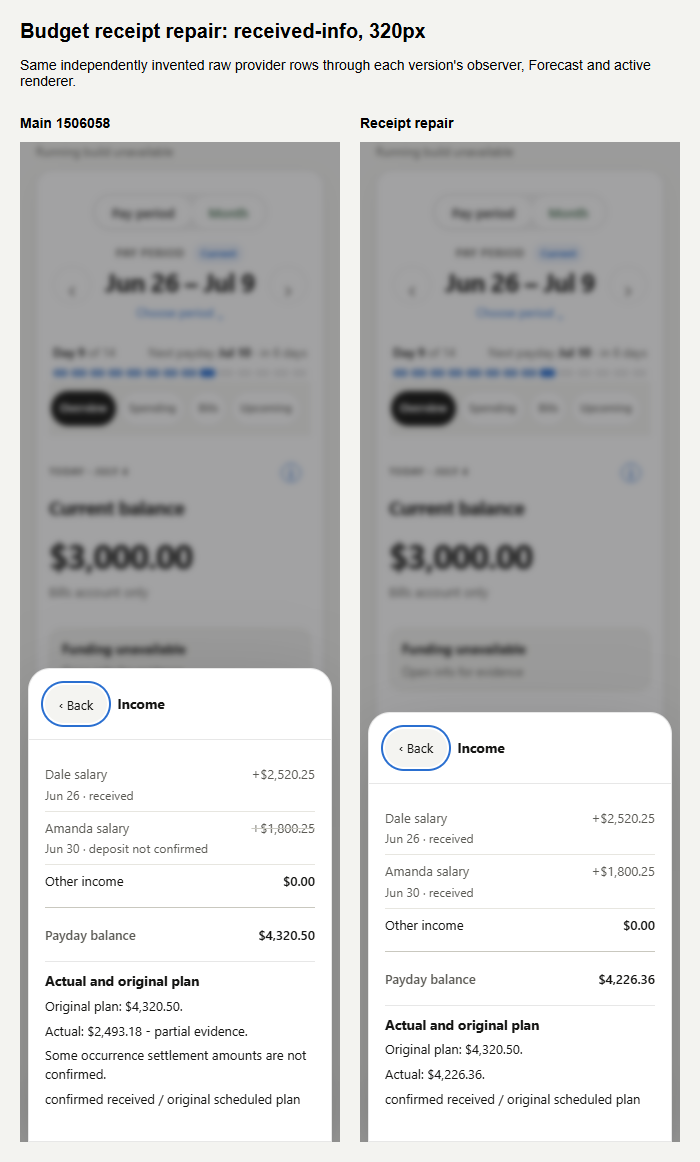
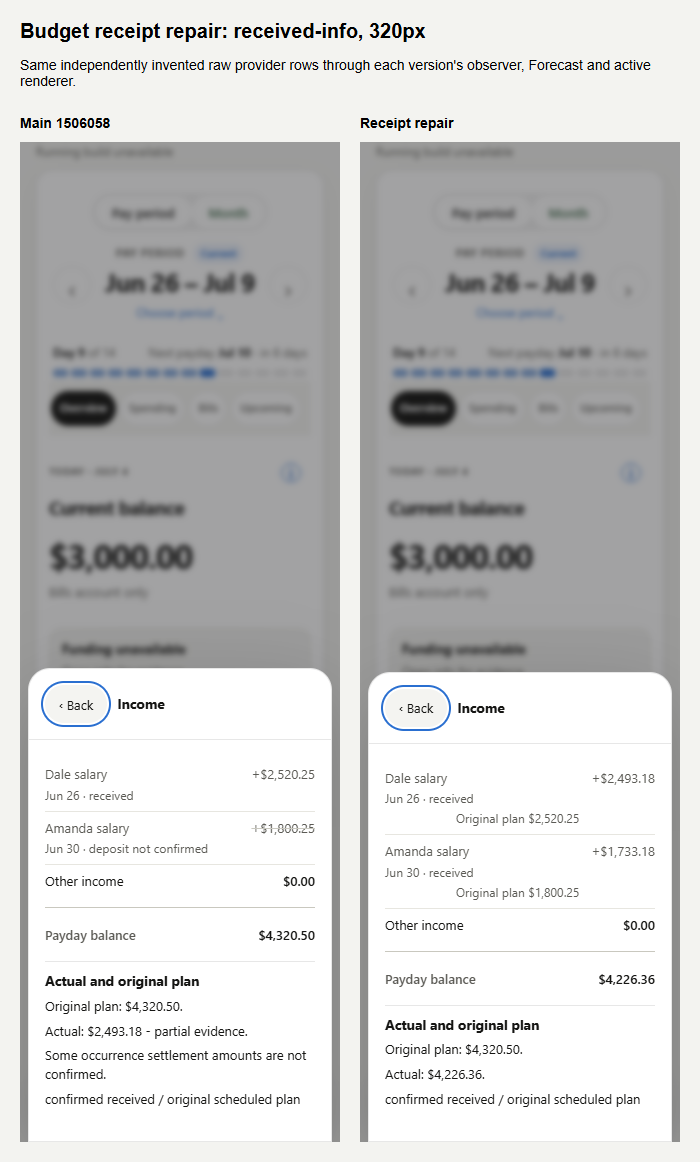
Fix received-income detail amounts and missing receipt boundaries

diff --git a/test/browser-budget-income-receipts.js b/test/browser-budget-income-receipts.js
@@ -2,14 +2,16 @@
 // App.boot uses independently invented provider receipt/transfer fixtures.
 // Every network request is intercepted; no server or credentials are used.
 const assert=require('node:assert/strict'),fs=require('node:fs'),path=require('node:path');
-const {chromium}=require('playwright'),fx=require('./fixtures/budget-income-receipts');
+const {chromium}=require('playwright'),fx=require('./fixtures/budget-income-receipts'),provider=require('../scripts/provider-observe');
 const root=path.join(__dirname,'..'),out=process.env.ATLAS_BUDGET_SCREENSHOTS_DIR||path.join(require('node:os').tmpdir(),'budget-income-receipts');
 fs.mkdirSync(out,{recursive:true});
 (async()=>{const browser=await chromium.launch({executablePath:process.env.CHROME_PATH,headless:true});
 const errors=[],external=[];
-try{for(const width of [1440,390,320])for(const state of ['received','partial','unknown']){
+try{for(const width of [1440,390,320])for(const state of ['received','partial','unknown','history','missing-actual']){
  const rows=fx.transactions().filter(x=>state!=='partial'||x.providerTransactionId!=='salary');
- const fixture=fx.build(rows);if(state==='unknown')fixture.data.liveOverlay.currentPeriodActuals.transactionCoverage='truncated';
+ const fixture=fx.build(rows,fx.rules,provider,state==='history'?'2026-07-20':fx.AS_OF);
+ if(state==='missing-actual')fixture.packet.representedActuals.find(row=>row.id==='amandaSalaryMonthEnd').actual=null;
+ if(state==='unknown')fixture.data.liveOverlay.currentPeriodActuals.transactionCoverage='truncated';
  const page=await browser.newPage({viewport:{width,height:1000},colorScheme:'light',reducedMotion:'reduce'});
  page.on('pageerror',e=>errors.push(e.message));
  await page.route('**/*',route=>{const u=new URL(route.request().url());if(u.origin!=='http://budget.test'){external.push(u.origin);return route.abort();}
@@ -20,16 +22,17 @@ try{for(const width of [1440,390,320])for(const state of ['received','partial','
  return route.fulfill({body:fs.readFileSync(file),contentType:file.endsWith('.js')?'application/javascript':file.endsWith('.css')?'text/css':'text/html'});});
  await page.goto('http://budget.test/');await page.locator('[data-budget-surface]').waitFor();
  assert.equal(await page.evaluate(()=>App.data.meta.title),'Invented receipt reconciliation');
+ if(state==='history'){await page.locator('[data-budget-window-step="-1"]').click();assert.match(await page.locator('[data-budget-window-range]').innerText(),/Jun 26.*Jul 9/);}
  assert.equal(await page.evaluate(()=>document.documentElement.scrollWidth<=innerWidth),true,'320px has no horizontal overflow');
  const income=page.locator('[data-operating-question="02"] > details > summary');
  const text=await income.innerText();
  assert.match(text,/4,320\.50/,'original denominator remains planned income');
- if(state==='received'){
+ if(state==='received'||state==='history'){
   assert.match(text,/4,226\.36/,'actual = 2493.18 payroll + 1733.18 uniquely proven external salary');
   assert.equal(await income.locator('[data-budget-progress-partial]').count(),0);
-  assert.match(await page.locator('[data-operating-question="06"] > details > summary').innerText(),/345\.94[\s\S]*365\.00/);
-  assert.match(await page.locator('[data-operating-question="07"] > details > summary').innerText(),/3,834\.08/,'final uses unchanged reserve 392.28, not actual consumption 345.94');
- }else if(state==='partial'){
+  if(state!=='history')assert.match(await page.locator('[data-operating-question="06"] > details > summary').innerText(),/345\.94[\s\S]*365\.00/);
+  if(state!=='history')assert.match(await page.locator('[data-operating-question="07"] > details > summary').innerText(),/3,834\.08/,'final uses unchanged reserve 392.28, not actual consumption 345.94');
+ }else if(state==='partial'||state==='missing-actual'){
   assert.match(text,/2,493\.18\*/,'partial confirmed subtotal is marked, never forced to plan');
   assert.equal(await income.locator('[data-budget-progress-partial]').count(),1);
  }else assert.match(text,/Unknown/,'truncated evidence cannot become an actual');
@@ -47,13 +50,31 @@ try{for(const width of [1440,390,320])for(const state of ['received','partial','
  await income.focus();await page.keyboard.press('Enter');
  await page.waitForFunction(()=>document.querySelector('[data-budget-detail-sheet]')?.open);
  const evidence=await page.locator('[data-budget-detail-body]').innerText();
- if(state==='received')assert.match(evidence,/4,226\.36/);
- if(state==='partial')assert.match(evidence,/partial evidence[\s\S]*Some occurrence settlement amounts are not confirmed/);
+ if(state==='received'||state==='history')assert.match(evidence,/4,226\.36/);
+ if(state==='partial'||state==='missing-actual')assert.match(evidence,/partial evidence[\s\S]*Some occurrence settlement amounts are not confirmed/);
  if(state==='unknown')assert.match(evidence,/Actual: Unavailable/);
+ const body=page.locator('[data-budget-detail-body]');
+ const received=await body.locator('[data-income-status="received"]').evaluateAll(rows=>rows.map(row=>({
+  id:row.dataset.periodIncome||row.dataset.otherIncomeItem,
+  amount:row.querySelector('[data-income-line-amount]')?.textContent.trim(),
+  original:row.querySelector('[data-income-original-plan]')?.textContent.trim()})));
+ const dale=received.find(row=>row.id==='payroll');assert.equal(dale.amount,'+$2,493.18');assert.match(dale.original,/Original plan.*2,520\.25/);
+ const amanda=received.find(row=>row.id==='amandaSalaryMonthEnd');
+ if(state==='partial')assert.equal(amanda,undefined,'unproven salary is never marked received');
+ else{assert.equal(amanda.amount,state==='missing-actual'?'Unavailable':'+$1,733.18');assert.match(amanda.original,/Original plan.*1,800\.25/);}
+ const cents=text=>{const m=text.match(/[$]([0-9,]+)\.([0-9]{2})/);return m?Number(m[1].replaceAll(',',''))*100+Number(m[2]):null;};
+ const lineCents=received.reduce((sum,row)=>sum+(cents(row.amount)??0),0);
+ if(state!=='unknown'){
+  const actualText=await body.locator('[data-budget-progress-evidence="income"]').innerText();
+  const actual=cents(actualText.split('Actual:')[1]);
+  assert.equal(lineCents,state==='partial'||state==='missing-actual'?249318:422636,'independent actual receipt cents; plans are separately labeled');
+  assert.equal(actual,lineCents,'opened Info received-line sum equals its printed Actual total');
+ }
+
  await page.screenshot({path:path.join(out,`${state}-info-${width}.png`),fullPage:false,animations:'disabled'});
  await page.keyboard.press('Escape');assert.equal(await income.evaluate(el=>el===document.activeElement),true,'exact income trigger regains focus');
  const r=await income.evaluate(el=>{const b=el.getBoundingClientRect(),dock=document.querySelector('.sitenav-household');return {top:b.top,bottom:b.bottom,limit:dock&&getComputedStyle(dock).position==='fixed'?dock.getBoundingClientRect().top:innerHeight};});
  assert.ok(r.top>=0&&r.bottom<=r.limit,'restored focus is visible above the mobile dock');
  await page.close();console.log(`PASS ${width}px ${state}: actual/original numerics, no subtitles, truthful unknowns, Info, exact focus and reserve identity`);
- }assert.deepEqual(errors,[]);assert.deepEqual(external,[]);console.log('PASS actual App.boot -> sanitized provider receipts -> Forecast -> active Budget; all 9 views and keyboard Info');
+ }assert.deepEqual(errors,[]);assert.deepEqual(external,[]);console.log('PASS actual App.boot -> sanitized provider receipts -> Forecast -> active Budget; all 15 current/history/missing views, received line sums and keyboard Info');
 }finally{await browser.close();}})().catch(e=>{console.error(e);process.exitCode=1;});

diff --git a/public/forecast.js b/public/forecast.js
@@ -4953,8 +4953,8 @@
       ? packet.representedActuals : [];
     for (const row of rows) {
       if (!row || !row.id || !row.date) continue;
-      const amt = Number(row.actual);
-      if (!isFinite(amt)) continue;
+      const amt = row.actual;
+      if (typeof amt !== 'number' || !isFinite(amt)) continue;
       const postedOn = row.postedOn && ISO_CALENDAR_DATE.test(String(row.postedOn))
         ? String(row.postedOn) : null;
       map.set(row.id + '@' + row.date, {
@@ -6301,6 +6301,16 @@
     }
     return householdIncomeAmount(row.amount)
       || householdIncomeAmount(row.planned);
+  }
+
+  // Received detail is a receipt claim, so it cannot use the contribution
+  // selector's ordinary planned fallback or a previously authored movement.
+  function incomeReceivedAmount(row) {
+    if (!row || row.status !== 'received' || row.notReliedUpon === true
+        || ['unverified', 'pending', 'unknown', 'unavailable', 'not-relied-upon', 'relied-upon'].includes(row.settlement)
+        || (row.actualTrust != null && !['calculated', 'estimated'].includes(row.actualTrust))
+        || typeof row.actual !== 'number' || !isFinite(row.actual)) return null;
+    return calendarIncomeContribution(row);
   }
 
   // Explicit complete household-cash evidence for (openingAsOf, morningDate).
@@ -11222,7 +11232,7 @@
           // Reuse incumbent receipt semantics: raw credits and normalized
           // benefit/Other Income actuals have different provider signs.
           // The numeric actual guard above forbids its planned fallback.
-          const actual = direction === 'income' ? calendarIncomeContribution(row) : row.actual;
+          const actual = direction === 'income' ? incomeReceivedAmount(row) : row.actual;
           amount = roundCent(amount + actual); known++;
           if (rowTrust === 'estimated') trust = 'estimated';
           evidence.push({ id: row.id || null, date: row.date, actual,
@@ -19146,7 +19156,7 @@
   const Forecast = { savingsInventory, savingsEarmarksState, HOUSEHOLD_TIMEZONE, financialDate, addDays, diffDays, occurrences, commitmentSettledOn, commitmentSettledBy, commitmentStatus, commitmentCashDate, billIsHouseholdObligation, billAffectsJointCash, isCardPaidBill, carriedOnceJointCashOutflow, prepaidJointCashOutflow, expandEvents, simulate, establishPaydaySnapshot, paydayBoundaryAccountObservation, postedAccountMovements, prePaydayBillsAccountCash,
     knowledgeHorizon, viewRange, commitmentNeed, fundingSequence, majorPlans, planSpendCards, planSpendPaydayFunding, budgetPeriodProgress, plannedDebt, debtPriority, paydayAllocation,
     classifyCurrentPeriodTransaction, householdInternalMovements, paydayPeriodOrigin, currentPeriodObligationStates, currentPeriodAction,
-    spendingCycle,
+    spendingCycle, incomeReceivedAmount,
     recommendWeekly, recommend, incomeDeadline, amandaHouseholdIncomeDeadline, counterfactuals,
     budgetBreakdown, monthlyFromWeekly,
     projectDebts, baselineTrajectory, baselineTrajectoryScenario, daleEstimatedPayrollDeposits, projectedDalePayroll,

diff --git a/test/test-income-transfer-receipts.js b/test/test-income-transfer-receipts.js
@@ -18,6 +18,30 @@ assert.equal(period.balanceAfterDeductions,3834.08,'actual receipts 4226.36 minu
 assert.equal(period.income.filter(x=>x.id==='amandaSalaryMonthEnd').length,1);
 assert.ok(!period.income.some(x=>x.otherIncome),'transfer and external coaching are not new Other Income');
 assert.equal(period.income.find(x=>x.id==='payroll').actual,-2493.18,'native payroll cents stay exact');
+assert.deepEqual(period.income.map(row=>F.incomeReceivedAmount(row)),[2493.18,1733.18],
+ 'received detail reuses receipt contribution, ignoring the planned movement');
+const receipt={status:'received',settlement:'represented',actual:-73.19,amount:95,movement:95};
+assert.equal(F.incomeReceivedAmount(receipt),73.19);
+for(const actual of [null,undefined,NaN,'73.19'])assert.equal(F.incomeReceivedAmount({...receipt,actual}),null,'missing or malformed receipt amount never falls back to plan');
+for(const settlement of ['unverified','pending','unknown','unavailable','not-relied-upon','relied-upon'])
+ assert.equal(F.incomeReceivedAmount({...receipt,settlement}),null,'contradictory settlement is not a received-amount claim');
+assert.equal(F.incomeReceivedAmount({...receipt,actualTrust:'unavailable'}),null);
+assert.equal(F.incomeReceivedAmount({...receipt,actual:0}),0,'confirmed zero does not become the original plan');
+assert.equal(F.incomeReceivedAmount({...receipt,otherIncome:true,actual:73.19}),73.19,'normalized Other receipt uses the same selector');
+for(const actual of [null,undefined,'1733.18']){
+ const malformed=fx.build();malformed.packet.representedActuals.find(row=>row.id==='amandaSalaryMonthEnd').actual=actual;
+ const published=F.recommend(malformed.data.plan,fx.AS_OF,{...malformed.data.plan.defaults,debts:[],currentPeriodActuals:malformed.packet})
+  .payPeriodViews.find(row=>row.timelineRole==='current');
+ assert.equal(F.incomeReceivedAmount(published.income.find(row=>row.id==='amandaSalaryMonthEnd')),null);
+ assert.equal(published.budgetProgress.income.actual.amount,2493.18,'malformed represented amount cannot become zero or the plan');
+ assert.equal(published.budgetProgress.income.actual.completeness,'partial');
+}
+const historical=fx.build(fx.transactions(),fx.rules,O,'2026-07-20');
+const historicPeriod=F.recommend(historical.data.plan,'2026-07-20',{...historical.data.plan.defaults,debts:[],currentPeriodActuals:historical.packet})
+ .payPeriodViews.find(x=>x.start===fx.START);
+assert.equal(historicPeriod.timelineRole,'past');
+assert.deepEqual(historicPeriod.income.map(row=>F.incomeReceivedAmount(row)),[2493.18,1733.18]);
+assert.equal(historicPeriod.budgetProgress.income.actual.amount,4226.36,'completed income retains the same proven receipt total');
 assert.deepEqual([period.budgetProgress.household.actual.amount,period.budgetProgress.household.planned.amount],
  [345.94,365],'independent current-cycle eligible debits 21531+10265+1835+963; current plans 22000+8500+6000');
 assert.equal(period.budgetHold,392.28,'independent reserve max(220,215.31)+max(85,102.65)+max(60,18.35)+9.63');

diff --git a/public/plan.js b/public/plan.js
@@ -1705,6 +1705,7 @@ function glanceSignedMoney(n) {
 
 function glanceMoney(row, kind) {
   if (!row) return null;
+  if (kind === 'in' && row.status === 'received') return Forecast.incomeReceivedAmount(row);
   if (row.movement != null && isFinite(Number(row.movement))) return Number(row.movement);
   let raw = null;
   if (kind === 'paid' || kind === 'in' || kind === 'planned') {
@@ -2004,8 +2005,11 @@ function calendarIncomeHtml(period) {
     const receiptDate = (daleSalary || amandaSalary) && row.date
       && /^\d{4}-\d{2}-\d{2}$/.test(String(row.date))
       ? `<time class="budget-receipt-date" datetime="${row.date}">${fmtDate(row.date)} · ${receiptStatus}</time>` : '';
+    const original = row.planned ?? row.amount;
+    const originalPlan = row.status === 'received' && typeof original === 'number' && Number.isFinite(original)
+      ? `<span class="budget-receipt-date" data-income-original-plan>Original plan ${money2(original)}</span>` : '';
     return `<div class="operating-line" data-period-income="${row.id || ''}" data-income-status="${statusAttr}"${extra}>
-      <span>${displayName}${receiptDate}</span><span>${amount != null ? estimateMark + about + amount : '—'}</span>
+      <span>${displayName}${receiptDate}${originalPlan}</span><span data-income-line-amount>${amount != null ? estimateMark + about + amount : row.status === 'received' ? 'Unavailable' : '-'}</span>
     </div>`;
   };
   const namedLines = named.map(row => line(row)).join('');
@@ -2042,10 +2046,11 @@ function calendarIncomeHtml(period) {
         : row.status === 'unknown' ? 'unknown'
         : row.alreadyInCash ? 'already in balance' : 'arriving';
       const about = !isReceived && row.confidence === 'estimated' ? 'about ' : '';
+      const receiptAmount = isReceived ? Forecast.incomeReceivedAmount(row) : row.amount;
       return `<li class="other-income-tx"${idAttr} data-income-status="${status}">
         <time${dateAttr}>${esc(dateText)}</time>
         <span class="other-income-tx-payee">${esc(payeeRaw)}${received}${pending}</span>
-        <span class="other-income-tx-amount">${about}${money2(row.amount)}</span>
+        <span class="other-income-tx-amount" data-income-line-amount>${receiptAmount != null ? about + money2(receiptAmount) : 'Unavailable'}</span>
       </li>`;
     }).join('');
     otherHtml = `<div class="other-income-openable" data-other-income>

diff --git a/test/fixtures/budget-income-receipts.js b/test/fixtures/budget-income-receipts.js
@@ -40,14 +40,15 @@ function transactions(){return [
  tx('refund','fixture-weekly','2026-07-03',-11.07,'Invented refund','Refund',{kind:'refund'}),
  tx('old','fixture-weekly','2026-06-25',51.08,'Invented prior-period grocer','Groceries'),
  tx('later','fixture-weekly','2026-07-05',82.17,'Invented future grocer','Groceries')];}
-function build(rows=transactions(),ruleRows=rules,provider=O){const d=data();
+function build(rows=transactions(),ruleRows=rules,provider=O,observationDate=AS_OF){const d=data();
+ d.meta.asOf=observationDate;d.plan.opening.asOf=observationDate;
  const input={plan:d.plan,accountMap,identityRules:ruleRows,transactions:rows,
-   transactionWindow:{startDate:'2026-06-25',endDate:AS_OF,complete:true,hasMore:false,truncated:false}};
+   transactionWindow:{startDate:'2026-06-25',endDate:observationDate,complete:true,hasMore:false,truncated:false}};
  const candidates=provider.representedEventCandidates(input);
  const report={transactions:rows,representedEventCandidates:candidates,transactionWindow:input.transactionWindow,
-   fetchedAt:AS_OF+'T18:00:00.000Z',pendingCoverage:{complete:true}};
- const packet=provider.sanitizedCurrentPeriodActuals(report,{asOf:AS_OF,plan:d.plan,accountMap,identityRules:ruleRows});
+   fetchedAt:observationDate+'T18:00:00.000Z',pendingCoverage:{complete:true}};
+ const packet=provider.sanitizedCurrentPeriodActuals(report,{asOf:observationDate,plan:d.plan,accountMap,identityRules:ruleRows});
  d.plan.opening.representedEvents=candidates.map(({id,date})=>({id,date}));
- d.liveOverlay={applied:true,operatingPlan:'live',asOf:AS_OF,currentPeriodActuals:packet};
+ d.liveOverlay={applied:true,operatingPlan:'live',asOf:observationDate,currentPeriodActuals:packet};
  return {data:d,input,report,candidates,packet};}
 module.exports={AS_OF,START,END,accountMap,rules,data,transactions,build};

diff --git a/test/test-budget-owner-voice.js b/test/test-budget-owner-voice.js
@@ -90,7 +90,7 @@ console.log('=== 1. Income labels and Dale exact dollars ===');
     'Dale payroll prints as Dale salary only');
   ok(/data-period-income="payroll"/.test(html),
     'Dale salary keeps the Forecast payroll identity');
-  const daleAmt = html.match(/data-period-income="payroll"[\s\S]*?<span>Dale salary<time[^>]*>[^<]*<\/time><\/span>\s*<span>([^<]*)<\/span>/);
+  const daleAmt = html.match(/data-period-income="payroll"[\s\S]*?<span>Dale salary<time[^>]*>[^<]*<\/time><\/span>\s*<span data-income-line-amount>([^<]*)<\/span>/);
   ok(daleAmt && daleAmt[1] === '+' + composer.money2(4264)
       && !/about/i.test(daleAmt[0]),
     'Dale salary prints exact $4,264.00 with no about prefix',

diff --git a/ARCHITECTURE.md b/ARCHITECTURE.md
@@ -855,6 +855,7 @@ closed: `Forecast.expandEvents` is the one cash calendar.
 
 | Concept | Incumbent authority |
 |---|---|
+| Confirmed received-income amounts | `Forecast.incomeReceivedAmount` reuses the incumbent calendar receipt contribution with explicit received status, finite numeric actual and eligible settlement/trust guards. Named income and Other Income detail consumers and `Forecast.budgetPeriodProgress` use the same receipt magnitude; planned amounts are labeled separately. Missing actuals are unavailable, never planned fallback or coerced zero. |
 | Confirmed goal earmarks and observed savings inventory | Optional `plan.savingsEarmarks` versioned purpose snapshots own confirmed intent only. `Forecast.savingsEarmarksState` validates them; `Forecast.savingsInventory` reconciles the current snapshot with sanitized, ephemeral Lunch Money pool evidence. Budget and Plan Spend print that same inventory through `public/savings-inventory.js`. Existing commitments, yearly bills, group members and `budget-reserve` `plan.budget.categories` rows (class `reserve`) own requirements. Assignments divide observed cash; they do not add cash beside balances or ACR. Unknown intent is not zero saved. For explicit purpose reserves, independently backed assignments seed the incumbent allocator only with matching payment components. Unknown intent, stale/pending/deficit evidence, and unsupported payment identities withhold proposals. Other configured reserve types retain incumbent withholding. |
 | The schedule — what is due, when, how often | `Forecast.expandEvents`, via `simulate`, from the `plan` inputs. An unresolved known once cash obligation still on the plan remains binding when Forecast start advances past its reservation date; the event keeps that scheduled date rather than acquiring the caller's start, and the cash walk still deducts the amount at this opening. The coupled `projectDebts` walk applies that same cash obligation at this opening via the same `cashWalkDate`; absorption still keys the original scheduled date, so `recommend` cannot drop the carried amount after caps. Advancing as-of is not settlement evidence. Received once income keeps window semantics. Non-cash once charges keep window semantics so a historical capitalisation is not applied again. Settled once outflows are removed, named on `representedEvents` for this start, or encoded as `firstDue` on the recurring row. Dated occurrences already inside the opening observation may be named on `plan.opening.representedEvents` or `opts.representedEvents` and are omitted only when that date is the simulation start (`plan.opening` only when its `asOf` is that start), except that a live overlay may set `plan.opening.priorAsOf` so represented names in `(priorAsOf, asOf]` also suppress replay. Unrepresented joint-cash outflows in `(priorAsOf, asOf)` remain on `expandEvents` and are applied at this opening via `cashWalkDate`. Unrepresented recurring card-paid reserved bills in that same interval remain on `expandEvents` and are applied at this opening via `cashWalkDate` as reserved gravity; they do not become joint-cash withdrawals. `Forecast.carriedOnceJointCashOutflow` permits an exact older represented id+date to suppress only a past once joint-cash outflow that Forecast still carries at this start; it cannot backfill income, recurring events, non-cash charges, or a merely similar occurrence. `Forecast.prepaidJointCashOutflow` permits an exact represented id+date to suppress a still-upcoming joint-cash obligation or bill occurrence after this start when identity has already named that occurrence, including a capitalising obligation's encoded cash-minimum date which shares that obligation id and is not the non-cash capitalise row; commitments still use `settledOn`, and recurring income is not prepaid this way. A future represented date is ignored for every other class. That list is opening-date settlement evidence, not a date-wide skip and not a second event engine. A dated commitment cash date is `Forecast.commitmentCashDate`: a stored valid `YYYY-MM-DD` `date` wins; otherwise a single clear month-and-year `when` (`Mon YYYY` or `by Mon YYYY`) is the 15th of that month. Spans, seasons, missing years, `late`/`around`/`early` wording, TBD, Christmas-as-month, and annual fail closed. Pages do not invent a day. A dated commitment may carry `settledOn` (a `YYYY-MM-DD`). `Forecast.commitmentSettledBy` treats that cash requirement as already satisfied only when the date is on or before the simulation start. A live overlay `priorAsOf` lookback still uses that same Forecast opening as the settlement cutoff: a valid `settledOn` on or before this opening is not re-funded merely because the inner expand window starts at the earlier origin. Unrepresented recurring joint-cash bills in `(priorAsOf, asOf)` remain reserved. Unrepresented recurring card-paid reserved bills in that same interval remain reserved. The record stays; its scheduled date does not move. Human-readable historical status is derived from the date's presence. Sinking-fund and estimated-commitment risk use the same helper. `representedEvents` is not used for this. A dated bill may carry `payingAccount`. `Forecast.billIsHouseholdObligation` is true unless the bill is explicitly `householdObligation: false`; paying-account metadata never flips that. `Forecast.billAffectsJointCash` suppresses joint-cash deduction when the paying account is on `plan.startingCash.heldElsewhere`, or when the bill is card-paid (`Forecast.isCardPaidBill`: payingAccount is a known obligation `debtId`, or explicit `jointCash: false` that is not held-elsewhere). No payingAccount, a `breakdown` payer, or an unknown/typo id fail closed and still deduct. A card-paid dated bill is still on `expandEvents` and is reserved on its planning day; it does not deduct chequing and does not capitalise onto the card. An externally paid household obligation still appears on the `expandEvents` schedule and in `Forecast.nextDue`; `Forecast.simulate` and `Forecast.nextPaymentOut` do not treat it as cash leaving the joint pool. A utility account balance is not a bill |
 | Cash projection over the window | `Forecast.simulate`. `opts.horizonDays` walks the master; `opts.viewDays` slices the same walk for display; `opts.viewStart` may begin that slice after as-of so a custom range is a real offset, not an as-of prefix of the same length. A sliced week recomputes its in-range income, bills, obligations, variable, reserved and other aggregates from the clipped events and days; it does not keep the original week's full totals. Default remains `plan.windowDays` so a caller that has not asked for the master still gets the view. Undated `plan.budget.categories[].currentMonthly` (when it wins over an owner target) is reserved as daily cash on this walk, using the calendar month `365.25 / 12`, so a card-paid current-regime service without a trustworthy day exerts gravity without a fabricated due date. A dated card-paid bill is reserved on its planning day on the same `week.reserved` / `totals.reserved` ledger, not as `week.bills` and not mixed into the weekly-cap variable/Budget column. Neither form is a second event engine. Spendable opening is `startingCashAmount`: household chequing-only (`HOUSEHOLD_CHEQUING_IDS`, the same identities as `Forecast.postedHouseholdChequingCash`) when those rows exist on the breakdown; designated `savings` / EMERGENCY SAVING stays on the breakdown as reserve evidence and is not spent on the walk (owner 2026-09-18, Case K). `additionalCashRequired` is `max(0, 0 − min.balance)` on that chequing-only carry-forward walk — the same zero-floor identity as `shortfall`, and the total future cash funding required. Designated savings does not reduce this walk figure. Forecast-owned backing of that total (`fundedByDesignatedSavings` from actual `savings` / EMERGENCY SAVING evidence, then `remainingAdditionalCashRequired`) is published on `Forecast.baselineTrajectory.additionalCashRequired`. Funding floor is $0, not `targetBuffer`, and not a new emergency buffer. Period month/pay-period `stage*.result` deficits must never be summed to derive this requirement Explicit purpose-reserve payment components come from current `Forecast.savingsInventory` backing and the incumbent `fundingSequence`; `expandEvents` retains the full expense and annotates only one matching occurrence. `simulate` applies its operating portion and publishes the reserve-funded portion separately. This is projected use of already-backed cash, not income, an injection, a transfer, or generic ACR backing. Missing matching cashflow proof leaves the full incumbent operating cost in place. |

diff --git a/docs/design/budget-income-receipts/README.md b/docs/design/budget-income-receipts/README.md
@@ -28,6 +28,23 @@ planned contribution; ordinary unconfirmed plan fallback remains the incumbent
 Forecast behavior. Original planned row amounts and ratio denominators stay
 unchanged. The interface computes no financial totals.
 
+### Systems B1: received detail must use actual receipts
+
+Review [5407130262](https://github.com/tc5v5s64ym-sketch/Atlas-Financial/pull/496#pullrequestreview-5407130262)
+blocked head `91e9661`: the correct received total coexisted with individual
+received lines showing their original planned movements. Every received-income
+detail consumer now reads `Forecast.incomeReceivedAmount`, also used by the
+progress receipt total. Original plan amounts remain explicitly labeled
+`Original plan`; missing actuals print `Unavailable`. The represented-actual
+map rejects null and malformed amounts instead of coercing them to zero.
+
+The browser opens Info and independently sums only its received line amounts,
+then compares those cents with its printed Actual total. Fifteen views cover
+current, completed, absent-source, truncated and missing-actual evidence at
+1440/390/320px, with unequal plan and actual amounts. Unit coverage additionally
+checks contradictory settlement/trust, numeric zero and malformed actuals.
+The review outcome for the replacement head remains pending independent review.
+
 ## Independent reconciliation
 
 All amounts, dates, provider IDs and employer aliases in fixtures and captures
@@ -65,12 +82,19 @@ settlement status, reserve semantics and unavailable explanations.
 | Received Info, 320px | [Evidence](comparison-received-info-320.png) |
 | Missing salary source, 320px | [Partial evidence](comparison-partial-320.png) |
 | Truncated evidence, 320px | [Unknown evidence](comparison-unknown-320.png) |
+| Completed-period received Info, 320px | [Historical receipt lines](history-info-320.png) |
+| Missing actual Info, 320px | [Unavailable receipt amount](missing-actual-info-320.png) |
 
 The PR records the frozen exact head, required suite outcome, browser results,
 artifact hashes and independent Systems review. Screenshots alone are not a
 passing-head claim. Active App.boot tests cover 1440/390/320px, compact numerics,
 Info opening by keyboard, exact focus restoration above the dock, no overflow,
 missing data and the independent deduction identity.
+
+Current and completed received Info list `$2,493.18` and `$1,733.18`, separately
+labeling the `$2,520.25` and `$1,800.25` original plans. Missing-actual Info lists
+the known `$2,493.18` receipt, an unavailable salary receipt and a partial actual
+subtotal of `$2,493.18`, without replacing the unknown with its plan.
 
 ## Remaining evidence gaps
 
